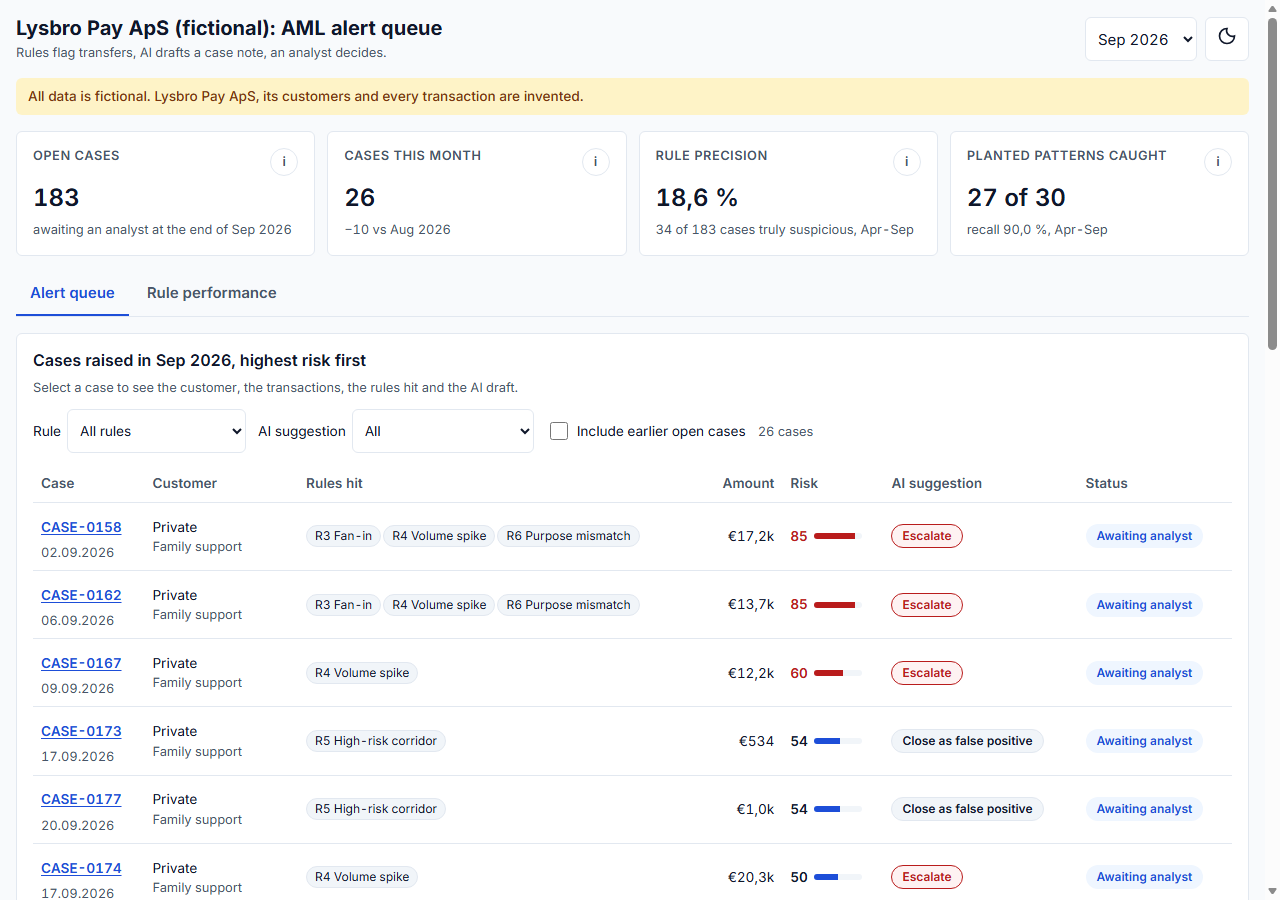
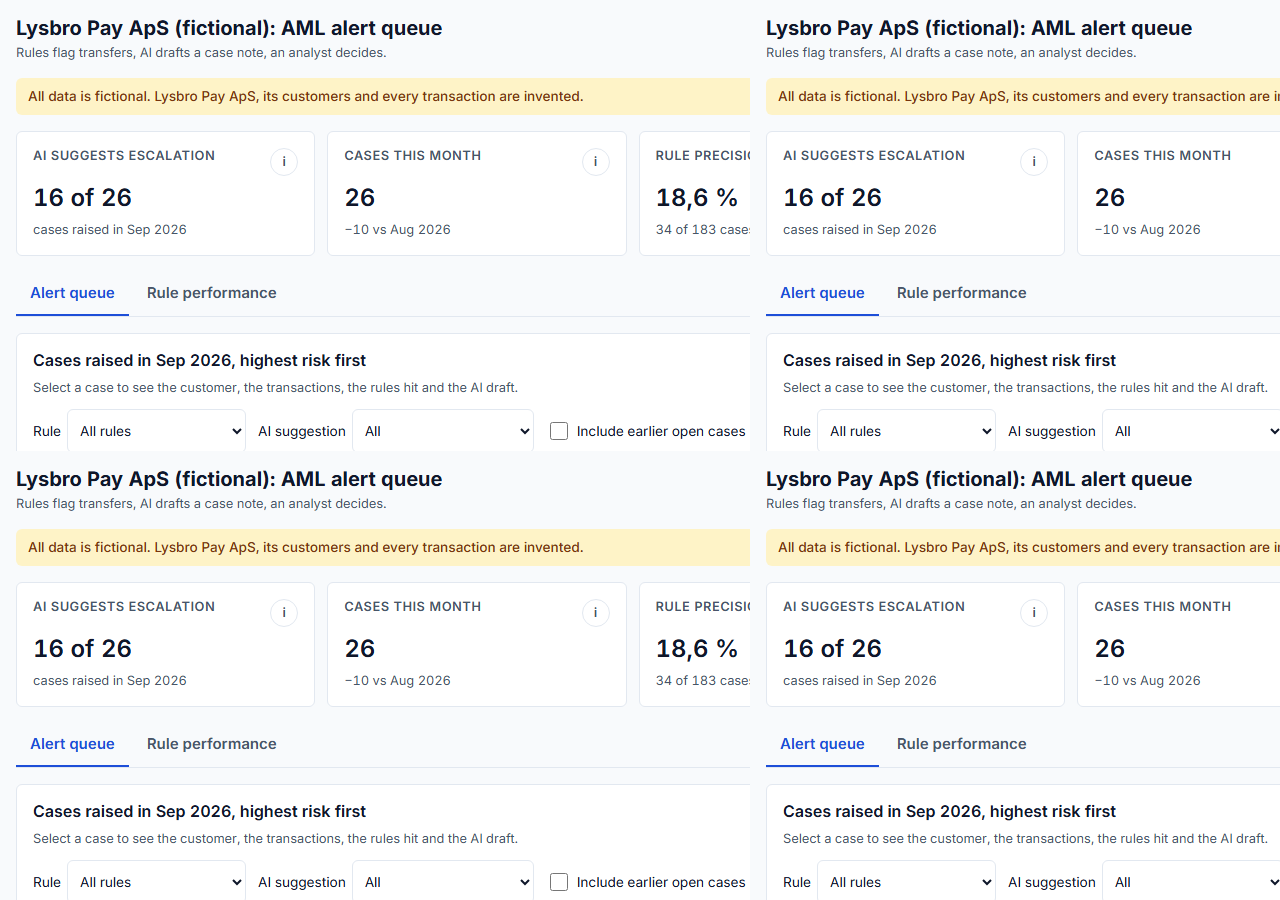
A7: Open Graph metadata and image, GitHub footer link, 404 page, QA script checks local or live; fresh screenshots

diff --git a/web/app/layout.tsx b/web/app/layout.tsx
@@ -4,10 +4,20 @@ import "./globals.css";
 
 const inter = Inter({ variable: "--font-inter", subsets: ["latin"] });
 
+// The live address. Placeholder until deploy; Open Graph needs absolute URLs, which metadataBase provides.
+const SITE = "https://lysbro-aml.vercel.app";
+const description =
+  "AML alert queue for Lysbro Pay ApS (fictional): rules flag suspicious transfers, AI drafts a case summary and suggests a next step, an analyst decides. All data is synthetic.";
+
 export const metadata: Metadata = {
+  metadataBase: new URL(SITE),
   title: "AML Alert Queue (fictional data)",
-  description:
-    "AML alert queue for Lysbro Pay ApS (fictional): rules flag suspicious transfers, AI drafts a case summary and suggests a next step, an analyst decides. All data is synthetic.",
+  description,
+  openGraph: {
+    title: "AML Alert Queue (fictional data)", description, url: "/", type: "website",
+    images: [{ url: "/og.png", width: 1200, height: 630, alt: "AML alert queue for Lysbro Pay ApS (fictional), Sep 2026" }],
+  },
+  twitter: { card: "summary_large_image", title: "AML Alert Queue (fictional data)", description, images: ["/og.png"] },
 };
 
 // Sets the saved theme before the page paints, so there is no flash of the wrong theme.

diff --git a/web/app/how-it-works/page.tsx b/web/app/how-it-works/page.tsx
@@ -30,6 +30,8 @@ export default function HowItWorks() {
         <p>Rules flag transfers that look suspicious. Alerts on the same customer within 14 days become one case. For every case,
           an AI model drafts a short note and suggests a next step: escalate, or close as a false positive. An analyst decides.
           The AI never decides and never says that anyone committed a crime; it describes behaviour.</p>
+        <p>The first KPI, &quot;AI suggests escalation&quot;, counts the cases raised in the selected month that the AI suggests
+          escalating. These are suggestions only: no analyst decisions exist in this demo.</p>
 
         <h2>The data</h2>
         <p>{num(2000)} invented customers of Lysbro Pay ApS (fictional) and their transfers from Jan to Sep 2026 (Jan-Mar only as

diff --git a/web/components/RulePerformance.tsx b/web/components/RulePerformance.tsx
@@ -43,7 +43,7 @@ export default function RulePerformance() {
         </div>
         <div className="tablewrap">
           <table>
-            <thead><tr><th>Rule</th><th className="num">Cases</th><th className="num">Customers (planted)</th><th className="num">Truly suspicious cases</th><th className="num">Precision</th><th className="num">Pattern caught by its rule</th></tr></thead>
+            <thead><tr><th>Rule</th><th className="num">Cases</th><th className="num">Customers (planted)</th><th className="num">Truly suspicious</th><th className="num">Precision</th><th className="num">Pattern caught</th></tr></thead>
             <tbody>
               {rulePerformance.map((r) => (
                 <tr key={r.rule_id}>

diff --git a/web/components/Footer.tsx b/web/components/Footer.tsx
@@ -5,6 +5,7 @@ export default function Footer() {
       <span>All data is fictional: Lysbro Pay ApS (fictional) and its customers are invented.</span>
       {/* Plain link: a full page load avoids the RSC prefetch file that a static export does not serve. */}
       <a href="/how-it-works/">How this works</a>
+      <a href="https://github.com/knbarka-beep/aml-queue">Code on GitHub</a>
     </footer>
   );
 }

diff --git a/web/app/not-found.tsx b/web/app/not-found.tsx
@@ -1,0 +1,13 @@
+import Link from "next/link";
+import Footer from "@/components/Footer";
+
+export default function NotFound() {
+  return (
+    <main className="page">
+      <h1>Page not found</h1>
+      <p>This page does not exist on the AML alert queue for Lysbro Pay ApS (fictional).</p>
+      <p><Link href="/">Back to the alert queue</Link></p>
+      <Footer />
+    </main>
+  );
+}

diff --git a/docs/decisions.md b/docs/decisions.md
@@ -76,3 +76,4 @@ No change to the generator, seed, data, `config/rules.yaml`, rule SQL, the promp
 - **A4. Limitations** rewritten on How this works and in the README with the seven points from the review, each with numbers from the files.
 - **A5. Safety scan.** gitleaks 8 on the full history (10 commits, about 10 MB): no leaks. gitleaks on the working tree: 8 hits, all Next.js preview keys inside `web/.next/` (ignored build folder, regenerated on every build). Greps of `git log -p --all`: no `sk-ant`, no key variable with a value, no `.env` file ever committed, no phone numbers, emails only the GitHub noreply address and `noreply@anthropic.com` (commit trailers), no employer names (three mixed-case "pwc" hits are random characters inside binary or encoded data). Author and committer: only the noreply address. **Found:** the Windows user path (`C:\Users\<user>\...`) in a Python traceback in `data/ai/crashed_run_output.txt`. Not a secret. Redacted in the working tree; older commits still contain it. History not rewritten; Knut decides before the first push. `.gitignore` extended with `*.duckdb*`, `node_modules/`, `.next/`, `out/`, `private/`, `.vercel`.
 - **A6. README** reordered as asked (about 1.000 words, every number checked against the files). The first draft said R4 and R5 make "128 of the 149" false positives; 4 cases hit both rules, so that sum could double-count. Replaced with per-rule counts (70 and 58). `docs/case-sheet.md` written (about 330 words). `private/cv-line.md` and `private/pitch.md` written and gitignored; the live link is a placeholder until deploy.
+- **A7. Ready for Vercel.** `metadataBase` with a placeholder address (`https://lysbro-aml.vercel.app`, set for real in Part B), Open Graph title, description, `og:url`, a 1200 x 630 image (`web/public/og.png`, a screenshot of the queue taken by the QA script) and `twitter:card` summary_large_image. Footer links to How this works and to github.com/knbarka-beep/aml-queue. A 404 page that says "(fictional)". Instead of copying `live_check.mjs` from startup-runway, `tests/qa_edge.mjs` now takes an optional URL: without one it serves `web/out`; with one it checks the live site once, writes screenshots to `docs/screenshots/live/` and also fetches the Open Graph image. One script, so the local and live checks cannot drift apart. Expected values (16 of 26, the trade-off figures, the CASE-0158 summary) are read from `web/data/`, not typed in. Full data flow rerun (`run_all.py`): all reconciliation, rule-layer, AI-draft and truth-access checks pass; raw data unchanged. `npm test`, lint and `npm run build` pass. Headless Edge: 34 of 34 checks pass. The rule table headers were shortened after the screenshot showed the last column cut off at 1280 px.
